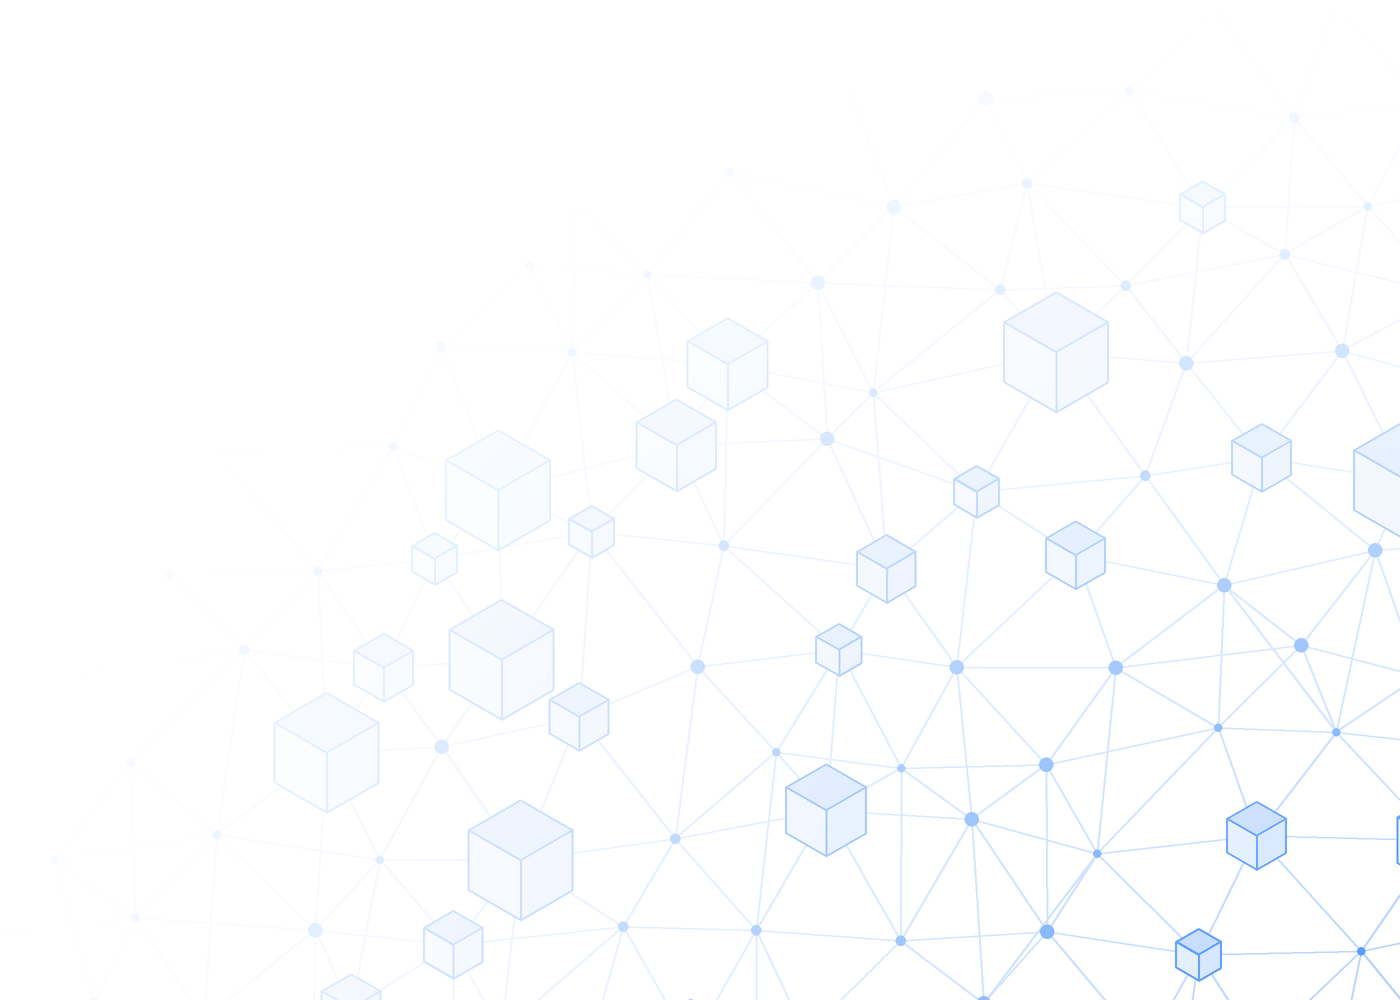
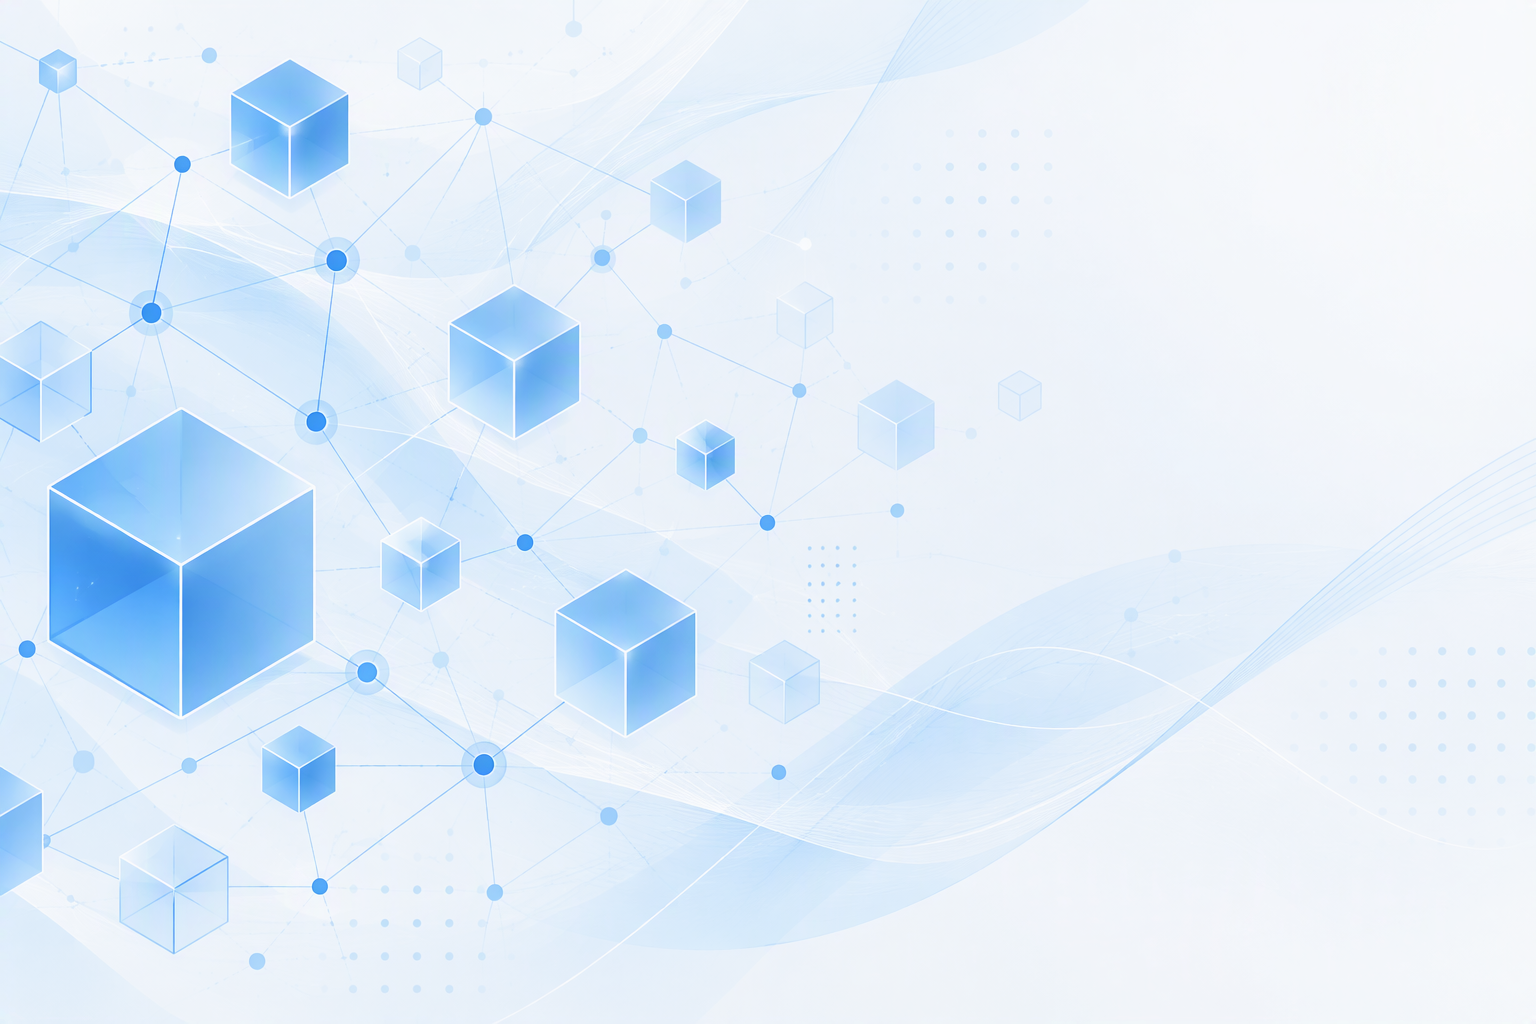
Modifiche cosmetiche

diff --git a/Components/Layout/MainLayout.razor.css b/Components/Layout/MainLayout.razor.css
@@ -60,7 +60,7 @@
     min-width: 0;
     padding: 30px;
     overflow-y: auto;
-    background: linear-gradient( rgba(244,246,249,0.45), rgba(244,246,249,0.45) ), url('/images/app-background.png') no-repeat left center / 100%, #f4f6f9;
+    background: linear-gradient( rgba(244,246,249,0.75), rgba(244,246,249,0.75) ), url('/images/app-background.png') no-repeat center center / 100%, #f4f6f9;
 }
 
 .content-home {
